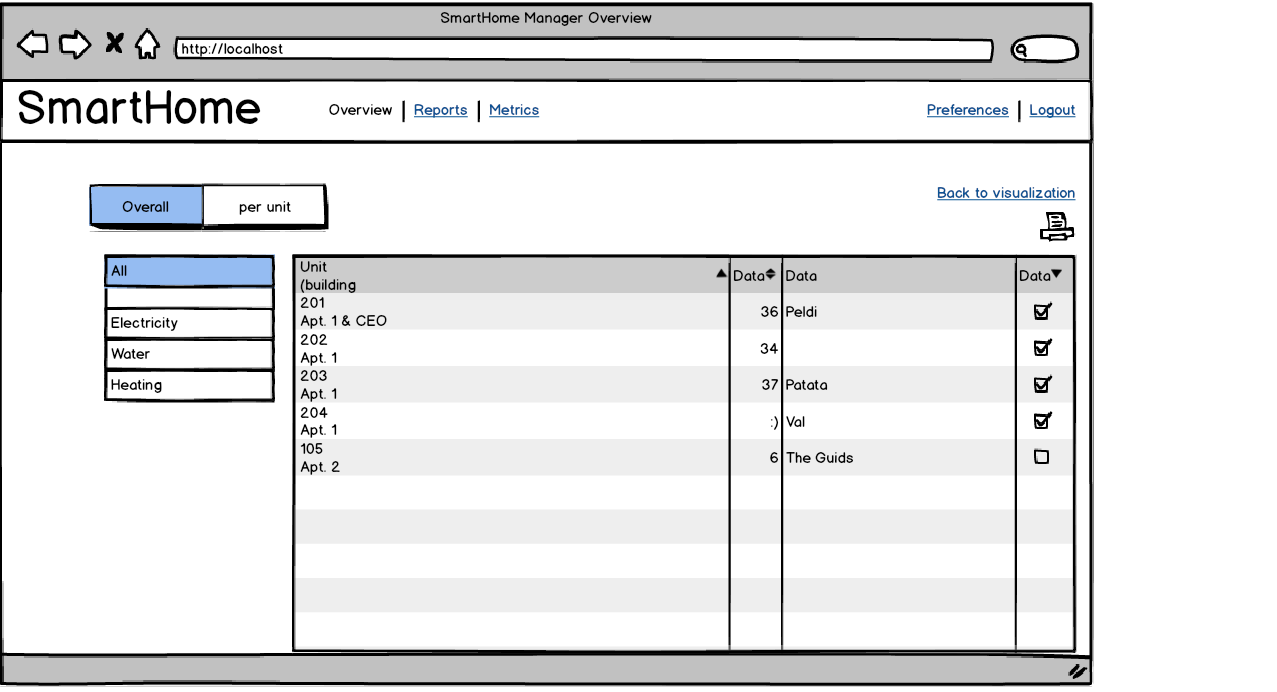
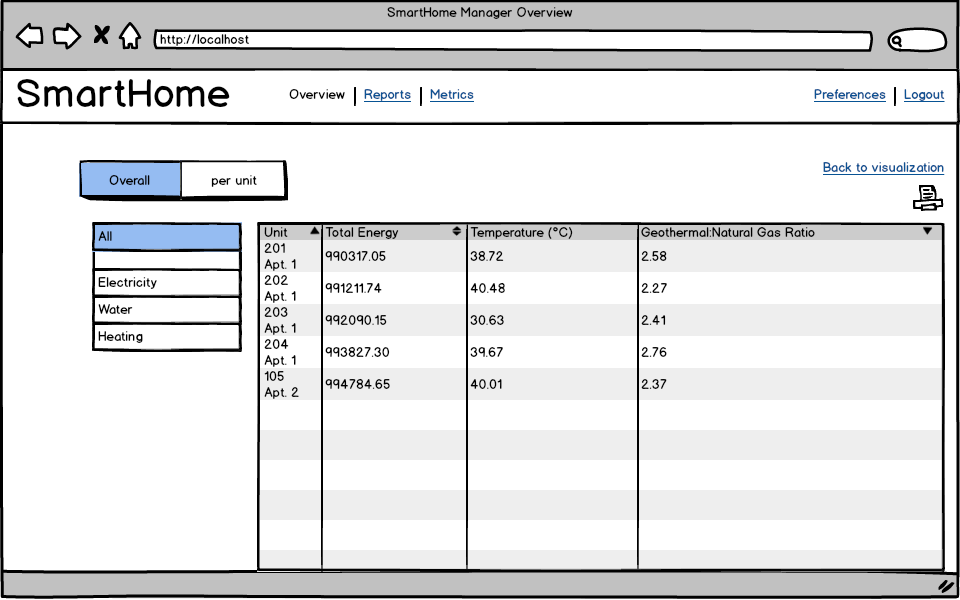
Broght changes in from wiki.

diff --git a/deliverables/Requirements-Document.md b/deliverables/Requirements-Document.md
@@ -121,23 +121,8 @@ For this first pass, I have followed the Volere template for requirement analysi
 
 ---
 
-**Requirement Name:** Multiple Apartment Selection  
-**Requirement #:** 7 	**Requirement Type:** 1	**Use Cases:** 2.1, 3.1, 4.4, 4.5
-
-**Description:** Data must be presented in some visual format: i.e. interactive graphs.
-
-**Rationale:** While plaintext data is valuable for certain tasks, graphs and charts are easier to digest at a glance.
-
-**Fit Criterion:** Whenever a user requests data from the system, they should have the option of
-
-**Customer Satisfaction:** 1		**Customer Dissatisfaction:** 8  
-**Dependencies:** 1, 2			**Conflicts:** None  
-**Supporting Materials:** None
-
----
-
 **Requirement Name:** Chart/Graph Visualization  
-**Requirement #:** 8 	**Requirement Type:** 1	**Use Cases:** 2.1, 3.1, 4.4, 4.5
+**Requirement #:** 7	**Requirement Type:** 1	**Use Cases:** 2.1, 3.1, 4.4, 4.5
 
 **Description:** Data must be presented in some visual format: i.e. interactive graphs.
 
@@ -153,7 +138,7 @@ For this first pass, I have followed the Volere template for requirement analysi
 
 **Requirement Name:** Weather Data
 
-**Requirement #:** 9 	**Requirement Type:** 5	**Use Cases:**
+**Requirement #:** 8 	**Requirement Type:** 5	**Use Cases:**
 
 **Description:** Data is parsed from Environment Canada or a similar website, and presented side-by-side with sensor data.
 
@@ -784,6 +769,12 @@ With there large user base, there is no doubt they are doing something right. Wh
 * Improved glossary
 * Added information about competing products
 * Added a general use case diagram for overall data access
+* Clarified each of the storyboards for residents
+* Removed requirement for "multiple apartment search" as it was confusing and unnecessary
+* Clarified requirement for data processing separation from front-end system
+* Added requirement for floor plan selection 
+* Added captions to storyboards.
+* Changed storyboard table headers from "data" to more plausible titles.
 
 [WBHDC]: http://www.wbhadc.ca/
 [Stony Mountain Plaza]: http://www.wbhadc.ca/rg_stonymountain.html
